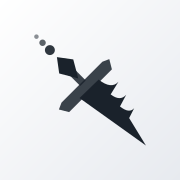
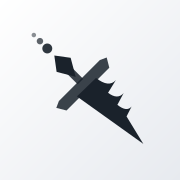
fix(ui): 品牌图标的剑形视觉居中
剑形原本按外接框居中，但剑身与鲨齿把重量压在右下，看着往右下坠；16px 专用字形没有剑首圆点，偏得更明显（上留白 5px、下只剩 1.5px）。

- 各图标源统一按「外接框中心与质心的中点落在画布中心」摆放：应用图标、favicon、iOS 主屏图标、Safari 固定标签页、16px 字形
- 16px 字形的源 favicon-small.svg 放回 brand/：favicon-16.png 由它渲染，之前被当作零引用删掉，PNG 失去了源
- 重新渲染三张 PNG，图标链接的缓存版本升到 v=8
- 修正 SVG 注释里指向已删除文件与已撤销的正负形配对的描述

diff --git a/web/index.html b/web/index.html
@@ -8,11 +8,11 @@
          theme-color 取 design-tokens.css --background 换算值：浅 #fafafa / 深 #09090b。两条按系统偏好
          的声明是无脚本时的回退；下方脚本与 useTheme 会把两条都改写成当前主题的颜色（用户手动选的主题
          可能与系统偏好相反，浏览器地址栏须跟随页面而不是系统）。 -->
-    <link rel="icon" type="image/svg+xml" href="/favicon.svg?v=7" />
-    <link rel="icon" type="image/png" sizes="32x32" href="/favicon-32.png?v=7" />
-    <link rel="icon" type="image/png" sizes="16x16" href="/favicon-16.png?v=7" />
-    <link rel="apple-touch-icon" href="/apple-touch-icon.png?v=7" />
-    <link rel="mask-icon" href="/safari-pinned-tab.svg?v=7" color="#c4cfdb" />
+    <link rel="icon" type="image/svg+xml" href="/favicon.svg?v=8" />
+    <link rel="icon" type="image/png" sizes="32x32" href="/favicon-32.png?v=8" />
+    <link rel="icon" type="image/png" sizes="16x16" href="/favicon-16.png?v=8" />
+    <link rel="apple-touch-icon" href="/apple-touch-icon.png?v=8" />
+    <link rel="mask-icon" href="/safari-pinned-tab.svg?v=8" color="#c4cfdb" />
     <meta name="theme-color" media="(prefers-color-scheme: light)" content="#fafafa" />
     <meta name="theme-color" media="(prefers-color-scheme: dark)" content="#09090b" />
     <meta name="viewport" content="width=device-width, initial-scale=1.0" />
